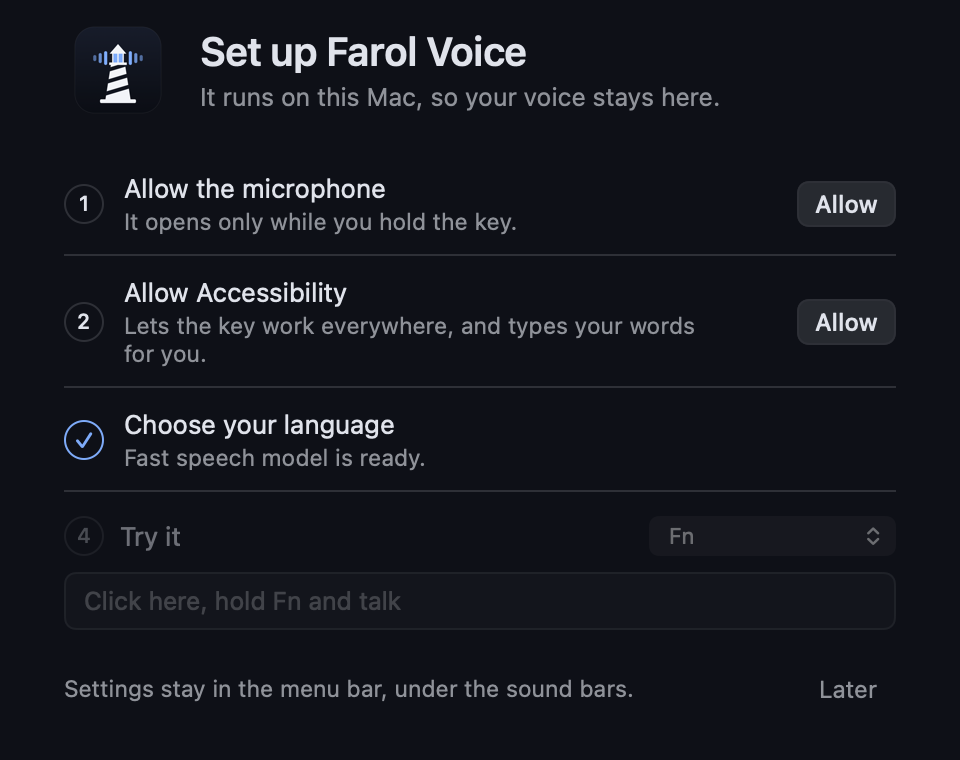
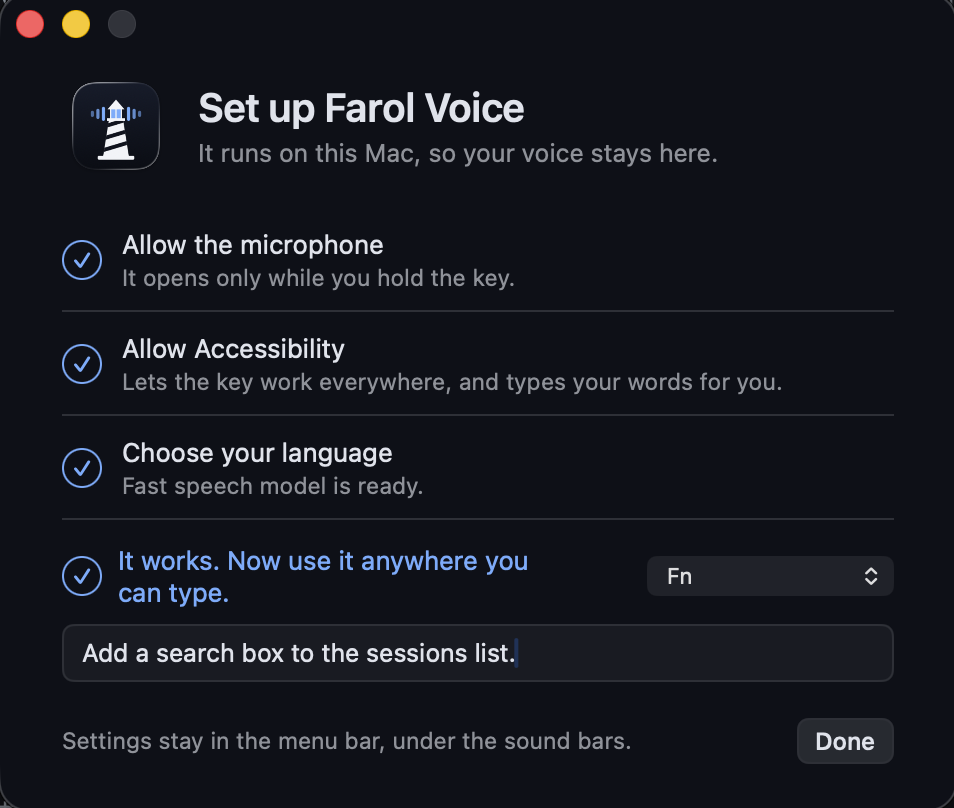
docs(site): use real window screenshots

diff --git a/site/index.html b/site/index.html
@@ -132,10 +132,10 @@
     .features h2 { font-size: inherit; font-weight: 500; margin: 0 0 6px; }
     .features p { color: var(--sn-fg-muted); font-size: var(--sn-text-sm); margin: 0; }
 
-    .shots { margin: 88px auto 0; display: grid; gap: 24px; align-items: start; }
+    .shots { margin: 88px auto 0; display: grid; gap: 24px; align-items: center; }
     @media (min-width: 860px) { .shots { grid-template-columns: repeat(2, 1fr); } }
     .shots figure { margin: 0; }
-    .shots img { display: block; width: 100%; height: auto; border-radius: 12px; border: 1px solid var(--sn-border-strong); }
+    .shots img { display: block; width: 100%; height: auto; border-radius: 12px; }
     .shots figcaption { color: var(--sn-fg-muted); font-size: var(--sn-text-sm); margin-top: 10px; text-align: center; }
 
     .next { margin-top: 96px; text-align: center; }
@@ -191,11 +191,11 @@
 
     <div class="shots wide">
       <figure>
-        <img src="setup.png" width="960" height="760" loading="lazy" alt="The Farol Voice setup window, with steps to allow the microphone and Accessibility, install a speech model and try it.">
+        <img src="setup.png" width="954" height="808" loading="lazy" alt="The Farol Voice setup window, with steps to allow the microphone and Accessibility, install a speech model and try it.">
         <figcaption>Set up in four steps.</figcaption>
       </figure>
       <figure>
-        <img src="settings.png" width="1000" height="924" loading="lazy" alt="Farol Voice settings, showing it's connected to Farol, the key to hold and what you can say.">
+        <img src="settings.png" width="992" height="1072" loading="lazy" alt="Farol Voice settings, showing it's connected to Farol, the key to hold and what you can say.">
         <figcaption>Tell Farol what to do.</figcaption>
       </figure>
     </div>
